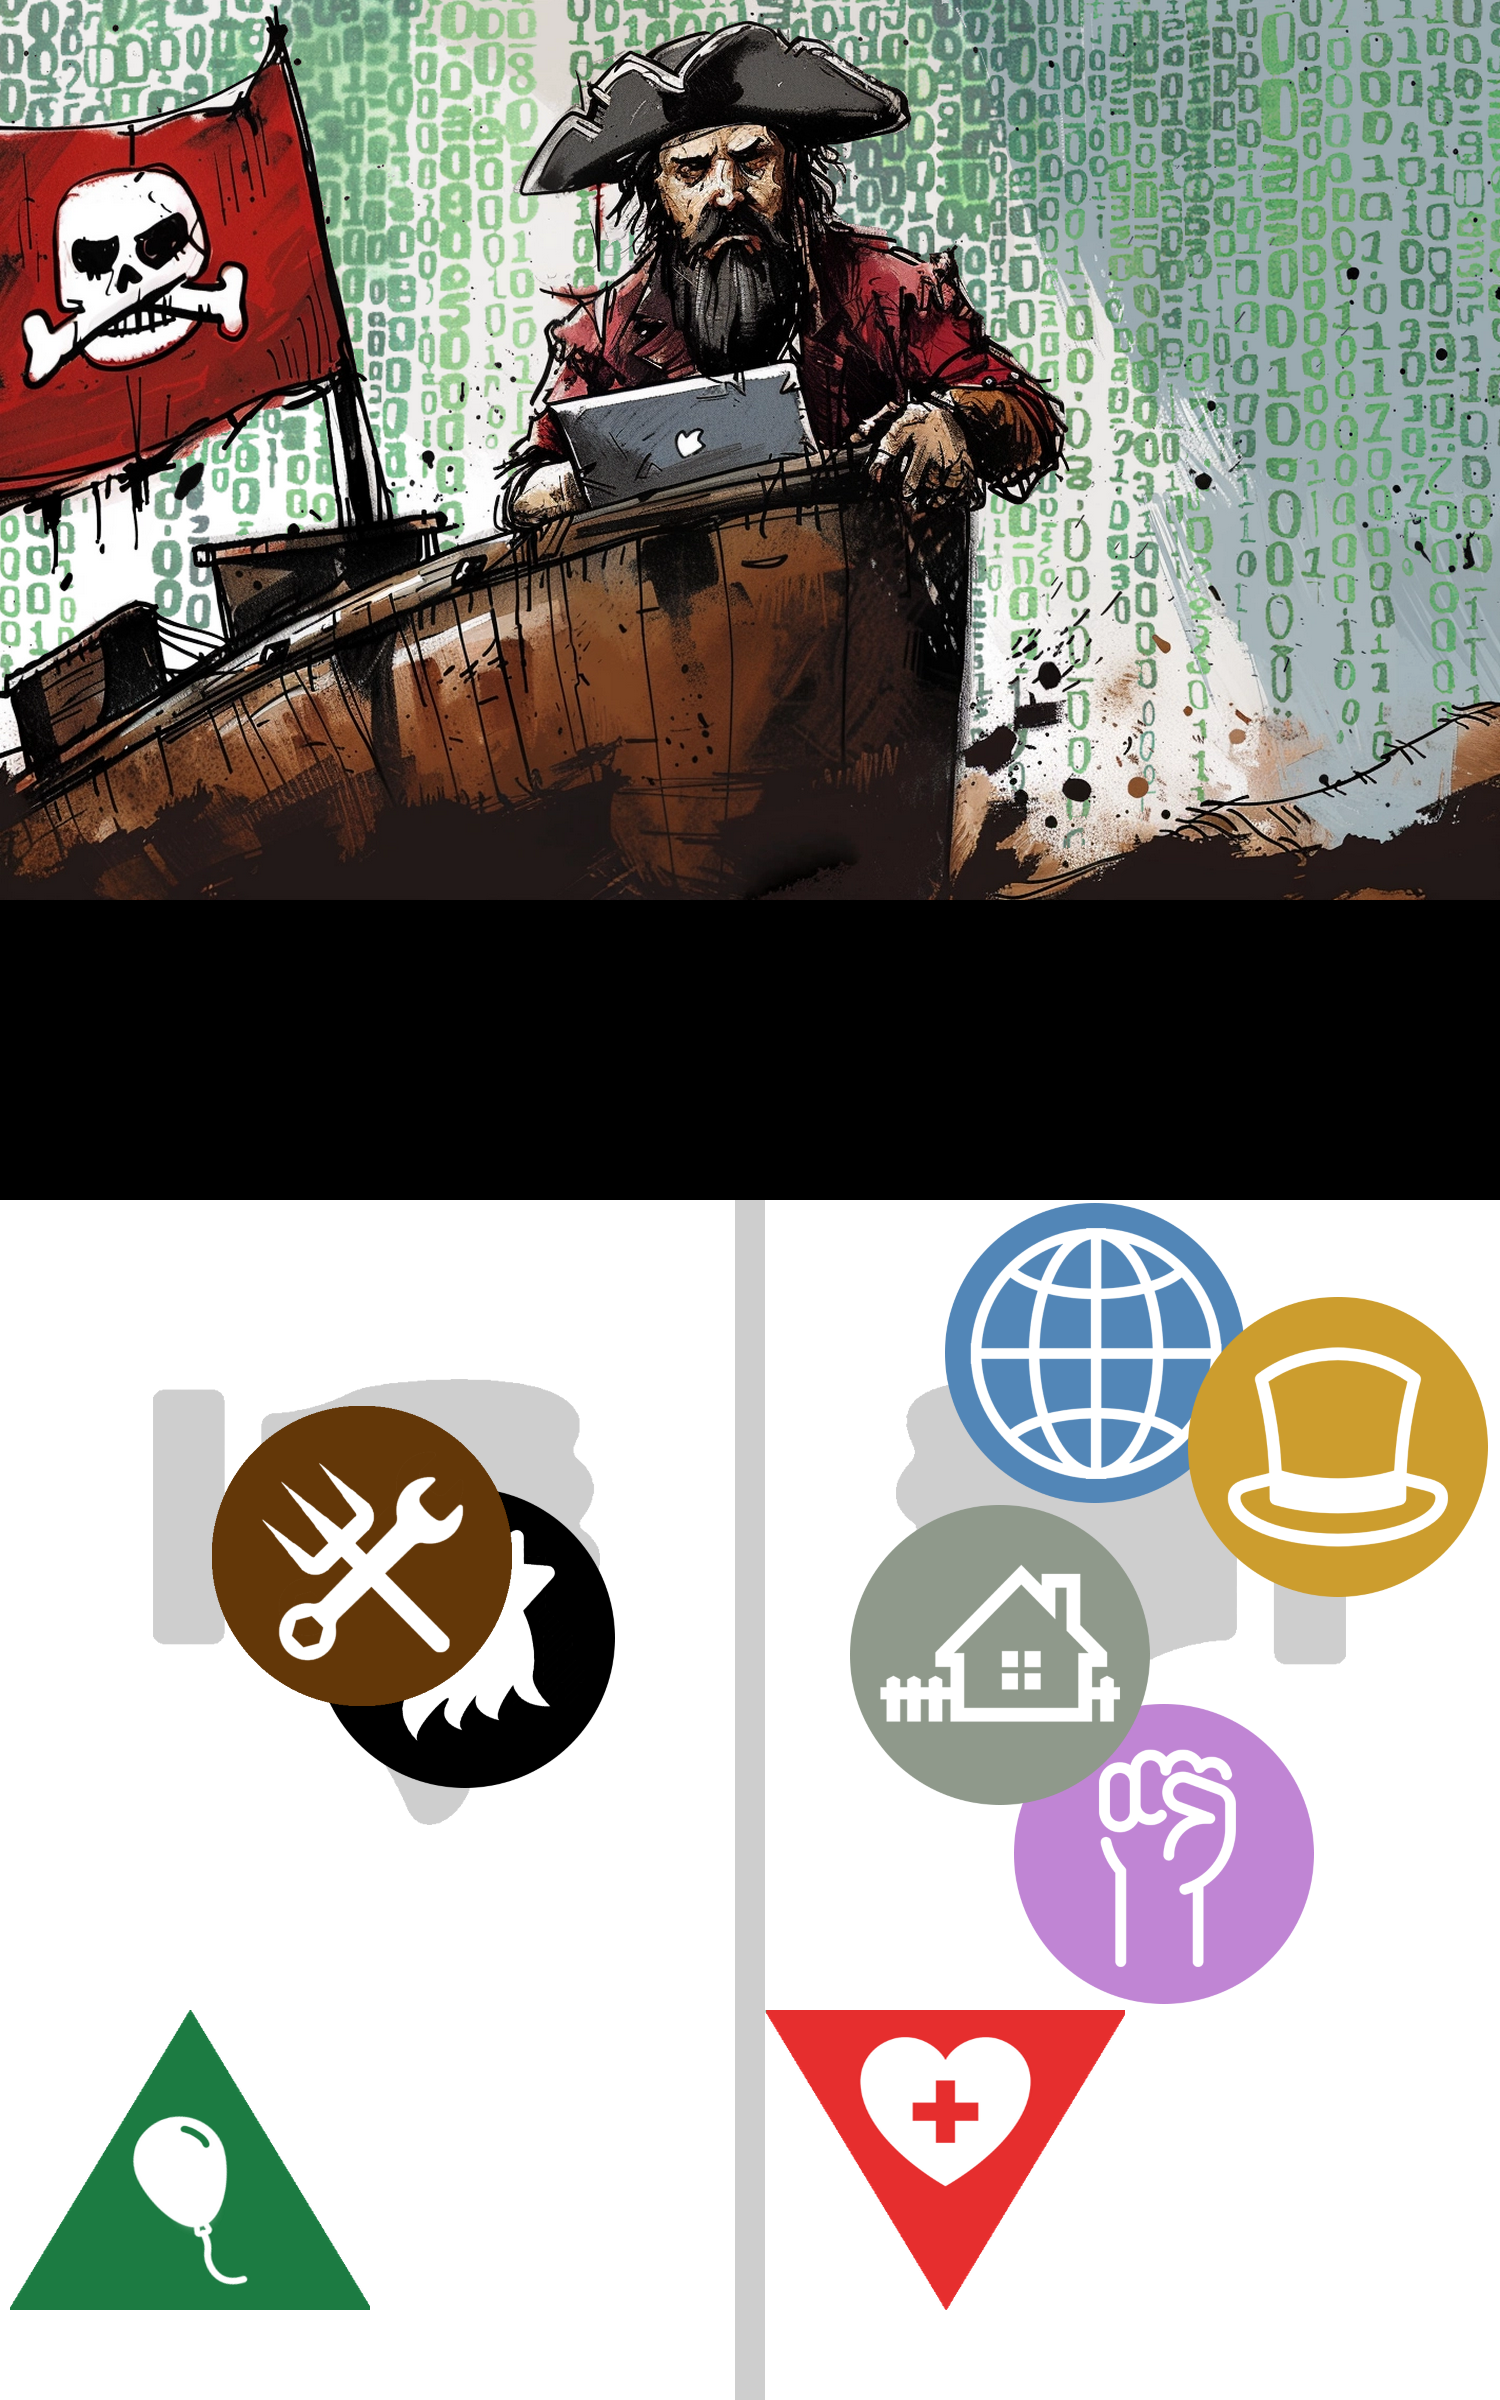
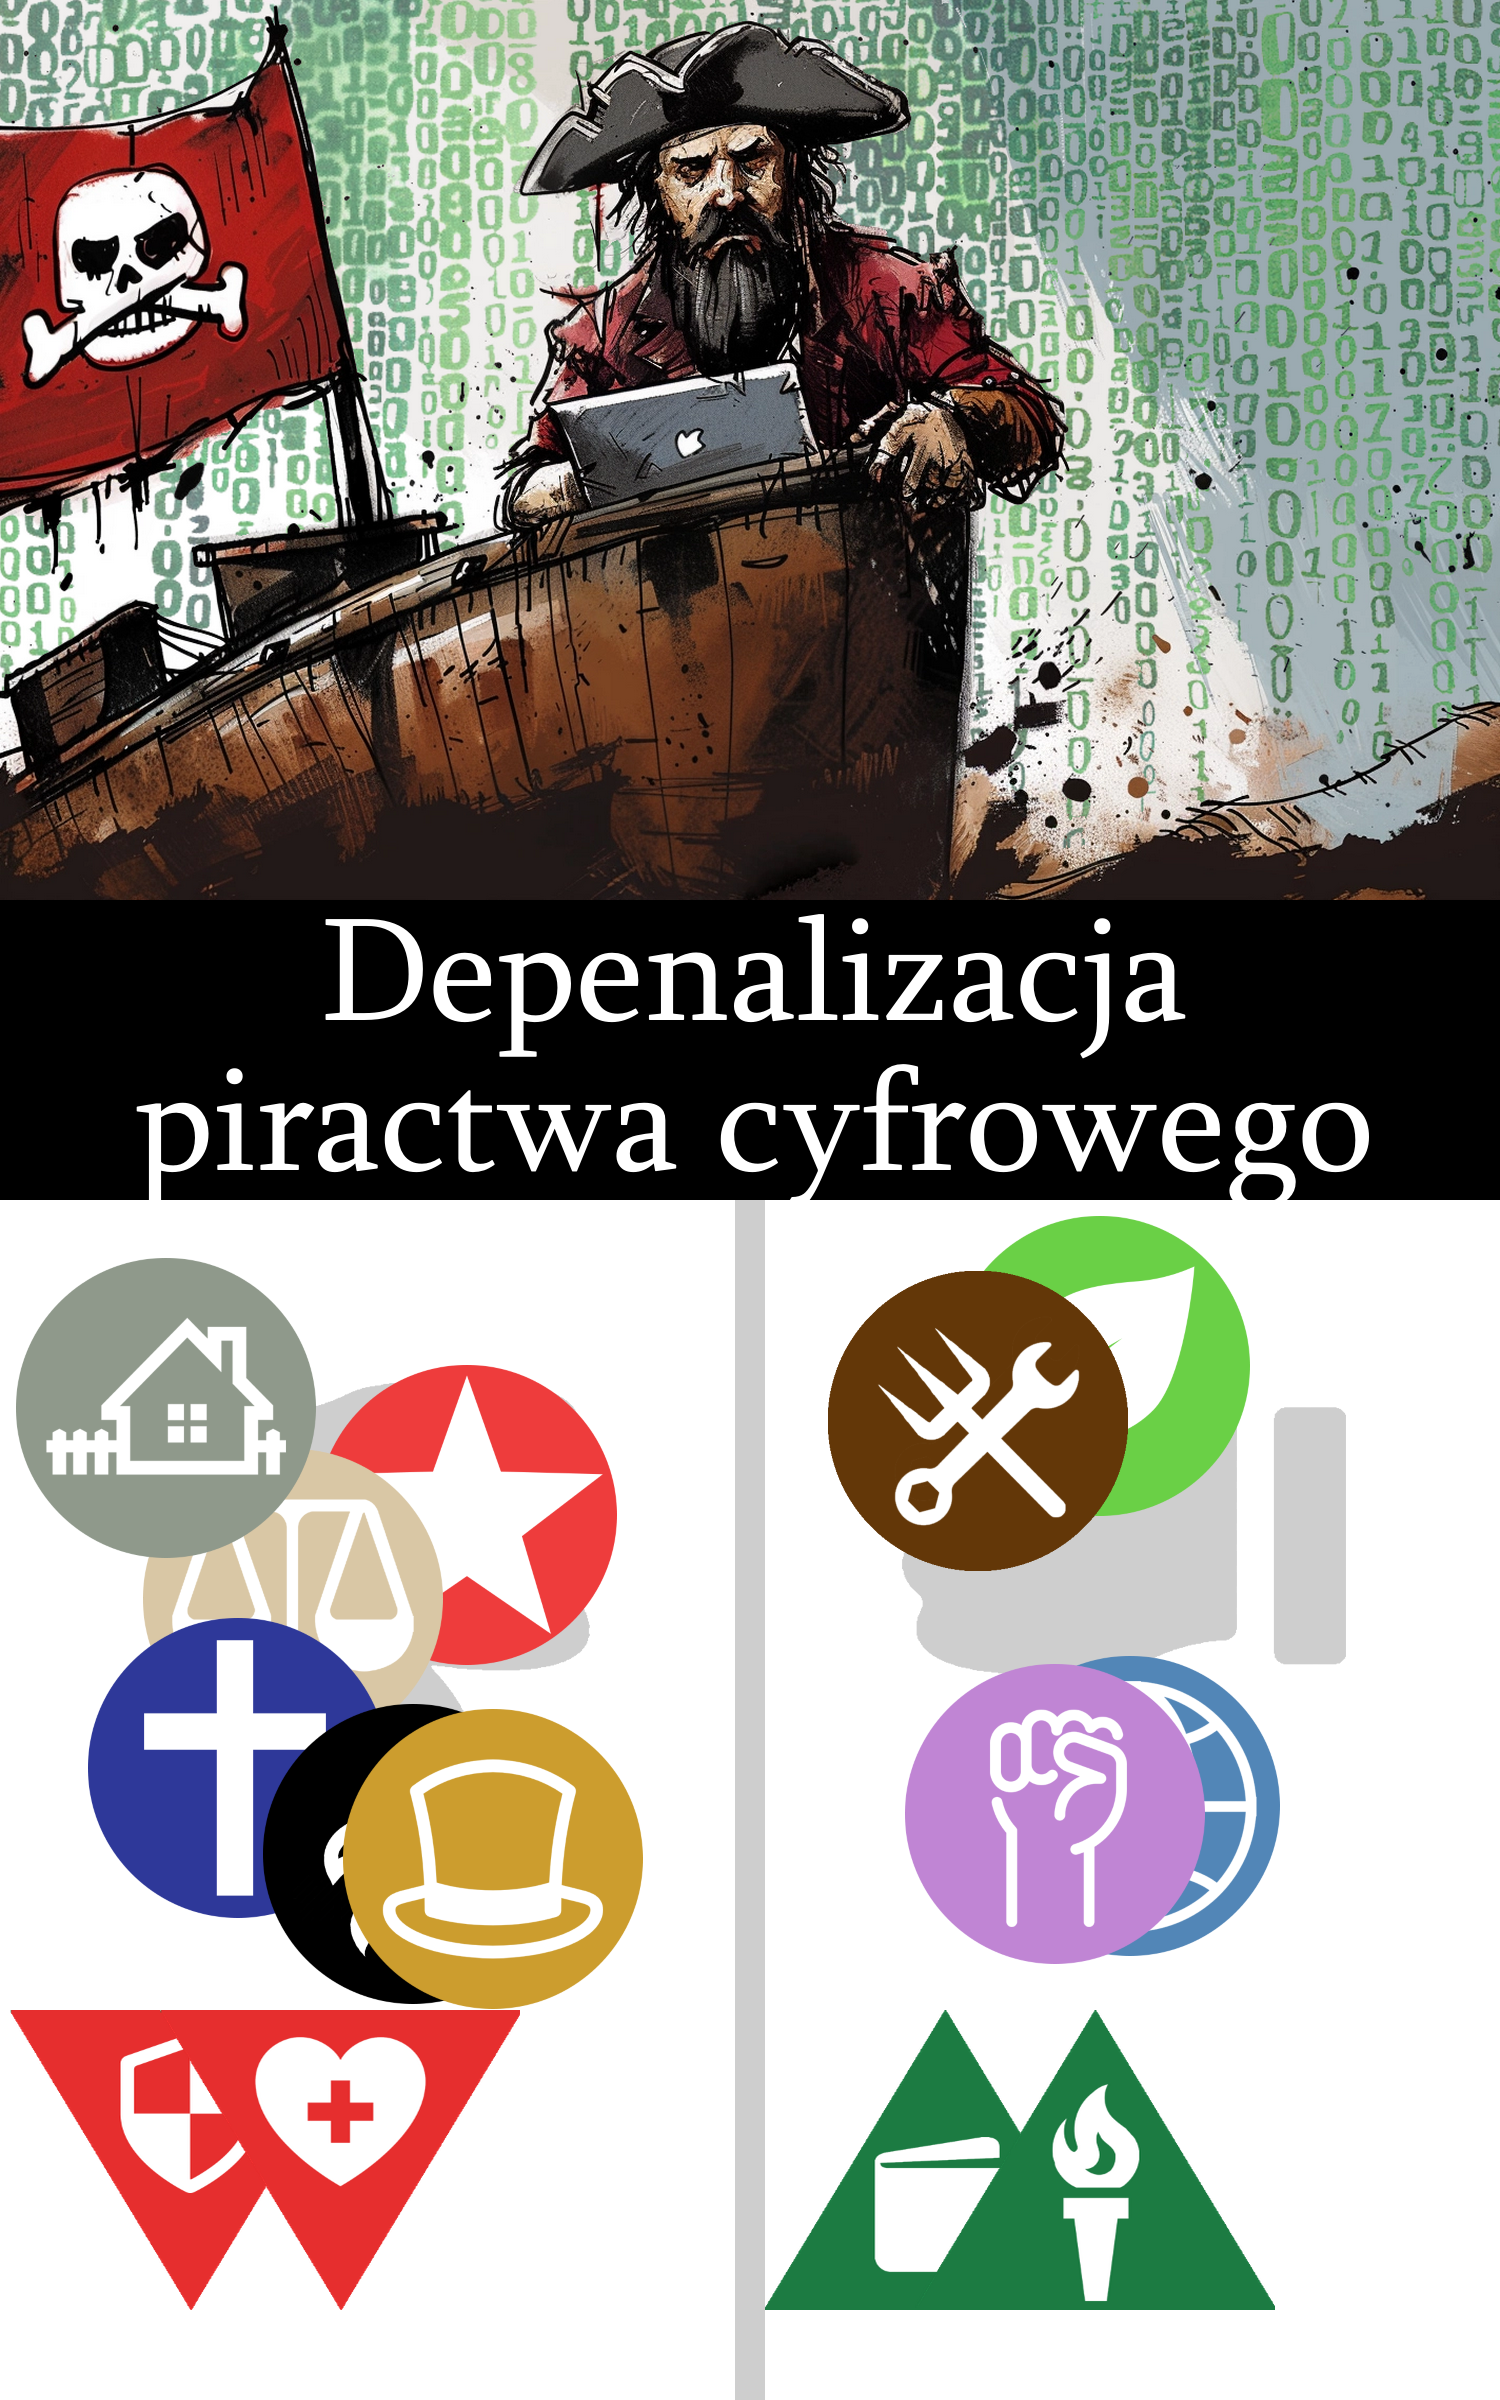
Finished!

Changed region(s): [[0.0, 0.375, 1.0, 0.9688]]

diff --git a/main.go b/main.go
@@ -3,14 +3,19 @@ package main
 import (
 	"fmt"
 	"image"
+	"image/color"
 	"image/draw"
 	"image/png"
 	"log"
 	"math/rand"
 	"os"
+	"strings"
 	"time"
 
+	"github.com/golang/freetype"
+	"github.com/golang/freetype/truetype"
 	"github.com/nfnt/resize"
+	"golang.org/x/image/font"
 )
 
 type Image struct {
@@ -31,7 +36,7 @@ type Cost struct {
 
 // Values 0-10
 type Card struct {
-	Art      Image
+	ArtPath  string
 	Title    string
 	Opinions [10]Opinion
 	Effects  [7]int
@@ -40,16 +45,6 @@ type Card struct {
 
 var (
 	grupyImagePaths = []string{
-		"assets/grupy/Socjalni.png",
-		"assets/grupy/Ekolodzy.png",
-		"assets/grupy/Centrysci.png",
-		"assets/grupy/Globalisci.png",
-		"assets/grupy/Katolicy.png",
-		"assets/grupy/Narodowcy.png",
-		"assets/grupy/Progresywni.png",
-		"assets/grupy/Przedsiebiorcy.png",
-		"assets/grupy/Robotnicy.png",
-		"assets/grupy/Samorzadowcy.png",
 		"assets/grupy/Socjalni.png",
 		"assets/grupy/Ekolodzy.png",
 		"assets/grupy/Centrysci.png",
@@ -77,25 +72,16 @@ var (
 		"assets/wsk/ZdrowieMinus.png",
 		"assets/wsk/ZdrowiePlus.png",
 	}
-	recurringCostPaths = []string{
-		"assets/ceny/minus3.png",
-		"assets/ceny/minus2.png",
-		"assets/ceny/minus1.png",
-		"assets/ceny/plus1.png",
-		"assets/ceny/plus2.png",
-		"assets/ceny/plus3.png",
-	}
 )
 
 func main() {
 	//Initialize a card
 	card := Card{
+		ArtPath:  "assets/piractwo.png",
 		Title:    "Depenalizacja piractwa cyfrowego",
 		Opinions: [10]Opinion{For, Against, For, Against, For, For, Against, For, Against, For},
 		Effects:  [7]int{0, 1, 0, -1, 1, 0, -1},
 	}
-
-	card = randomCard()
 
 	err := drawCard(card, "testcard")
 	if err != nil {
@@ -115,18 +101,7 @@ func drawCard(card Card, filename string) error {
 		return err
 	}
 
-	//Add card art to backgroundImage
-	artFile, err := os.Open("assets/piractwo.png")
-	if err != nil {
-		return err
-	}
-	art, err := png.Decode(artFile)
-	defer artFile.Close()
-	if err != nil {
-		return err
-	}
-
-	backgroundImage = addArt(backgroundImage, art)
+	backgroundImage = addArt(backgroundImage, card.ArtPath)
 
 	backgroundImage = addStamps(backgroundImage, card.Opinions[:])
 
@@ -134,6 +109,8 @@ func drawCard(card Card, filename string) error {
 	if card.Cost.Value > 0 {
 		backgroundImage = addCost(backgroundImage, card.Cost)
 	}
+
+	backgroundImage = addTitle(backgroundImage, card.Title)
 
 	result, err := os.Create(filename + ".png")
 	if err != nil {
@@ -147,7 +124,18 @@ func drawCard(card Card, filename string) error {
 	return nil
 }
 
-func addArt(backgroundImage image.Image, art image.Image) *image.RGBA {
+func addArt(backgroundImage image.Image, artPath string) *image.RGBA {
+
+	//Add card art to backgroundImage
+	artFile, err := os.Open(artPath)
+	if err != nil {
+		fmt.Println("addArt oops")
+	}
+	art, err := png.Decode(artFile)
+	defer artFile.Close()
+	if err != nil {
+		fmt.Println("addArt oops2")
+	}
 	//First resize the art to fit the card.
 	artWidth := uint(300 * 5)
 	artHeight := uint(300 * 3)
@@ -183,7 +171,7 @@ func drawStampFor(backgroundImage image.Image, stamp_id int) *image.RGBA {
 	}
 	stampImage, err := png.Decode(stampFile)
 	if err != nil {
-		fmt.Println("drawStampFor oops")
+		fmt.Println("drawStampFor oops2")
 	}
 
 	stampImage = resize.Resize(300, 300, stampImage, resize.Lanczos3)
@@ -204,7 +192,7 @@ func drawStampAgainst(backgroundImage image.Image, stamp_id int) *image.RGBA {
 	}
 	stampImage, err := png.Decode(stampFile)
 	if err != nil {
-		fmt.Println("drawStampAgainst oops")
+		fmt.Println("drawStampAgainst oops2")
 	}
 
 	stampImage = resize.Resize(300, 300, stampImage, resize.Lanczos3)
@@ -243,10 +231,10 @@ func drawGoodEffect(backgroundImage image.Image, effect_id, offset int) *image.R
 	}
 	effectImage, err := png.Decode(effectFile)
 	if err != nil {
-		fmt.Println("drawGoodEffect oops")
+		fmt.Println("drawGoodEffect oops2")
 	}
 	effectImage = resize.Resize(360, 300, effectImage, resize.Lanczos3)
-	x := 10 + offset*150
+	x := 765 + offset*150
 	y := 2010
 	effectPosition := image.Point{X: x, Y: y}
 	draw.Draw(resultImage, effectImage.Bounds().Add(effectPosition), effectImage, image.Point{}, draw.Over)
@@ -262,10 +250,10 @@ func drawBadEffect(backgroundImage image.Image, effect_id, offset int) *image.RG
 	}
 	effectImage, err := png.Decode(effectFile)
 	if err != nil {
-		fmt.Println("drawBadEffect oops")
+		fmt.Println("drawBadEffect oops2")
 	}
 	effectImage = resize.Resize(360, 300, effectImage, resize.Lanczos3)
-	x := 765 + offset*150
+	x := 10 + offset*150
 	y := 2010
 	effectPosition := image.Point{X: x, Y: y}
 	draw.Draw(resultImage, effectImage.Bounds().Add(effectPosition), effectImage, image.Point{}, draw.Over)
@@ -315,6 +303,77 @@ func costToFilepath(cost Cost) string {
 	return filepath
 }
 
+func addTitle(backgroundImage image.Image, title string) *image.RGBA {
+	resultImage := image.NewRGBA(backgroundImage.Bounds())
+	draw.Draw(resultImage, backgroundImage.Bounds(), backgroundImage, image.Point{}, draw.Src)
+	fontBytes, err := os.ReadFile("assets/sylfaen.ttf")
+	if err != nil {
+		fmt.Println("addTitle oops")
+	}
+	font, err := freetype.ParseFont(fontBytes)
+	if err != nil {
+		fmt.Println("addTitle oops2")
+	}
+	context := freetype.NewContext()
+	context.SetFont(font)
+	fontSize := 150
+	context.SetFontSize(float64(fontSize))
+	context.SetClip(resultImage.Bounds())
+	context.SetDst(resultImage)
+	context.SetSrc(image.NewUniform(color.White))
+
+	face := truetype.NewFace(font, &truetype.Options{
+		Size: 150,
+	})
+
+	if len(title) > 11 {
+		mid := len(title) / 2
+		left := strings.LastIndex(title[:mid], " ")
+		right := strings.Index(title[mid:], " ") + mid
+
+		if left == -1 {
+			left = 0
+		}
+		if right == -1 || right >= len(title) {
+			right = len(title)
+		}
+		if mid-left < right-mid {
+			mid = left
+		} else {
+			mid = right
+		}
+		title = title[:mid] + "\n" + title[mid+1:]
+	}
+
+	lines := strings.Split(title, "\n")
+
+	y := 1020
+	for _, line := range lines {
+		lineWidth := textWidth(face, line)
+		x := (resultImage.Bounds().Dx() - lineWidth) / 2 // Center text horizontally
+		pt := freetype.Pt(x, y)
+		_, err = context.DrawString(line, pt)
+		if err != nil {
+			fmt.Println("addTitle oop3")
+		}
+		y += int(context.PointToFixed(float64(fontSize)) >> 6)
+	}
+
+	return resultImage
+}
+
+func textWidth(face font.Face, text string) int {
+	width := 0
+	for _, char := range text {
+		aw, ok := face.GlyphAdvance(rune(char))
+		if !ok {
+			continue
+		}
+		width += int(aw >> 6)
+	}
+	return width
+}
+
 func randomCard() Card {
 	rand.Seed(time.Now().UnixNano())
 
@@ -342,7 +401,7 @@ func randomCard() Card {
 	}
 
 	// Generate random title
-	titles := []string{"Title1", "Title2", "Title3"} // Example titles
+	titles := []string{"Zakaz handlu w niedziele", "Prywatyzacja uniwersytetów", "Małżeństwa jednopłciowe z adopcją"} // Example titles
 	title := titles[rand.Intn(len(titles))]
 
 	return Card{
